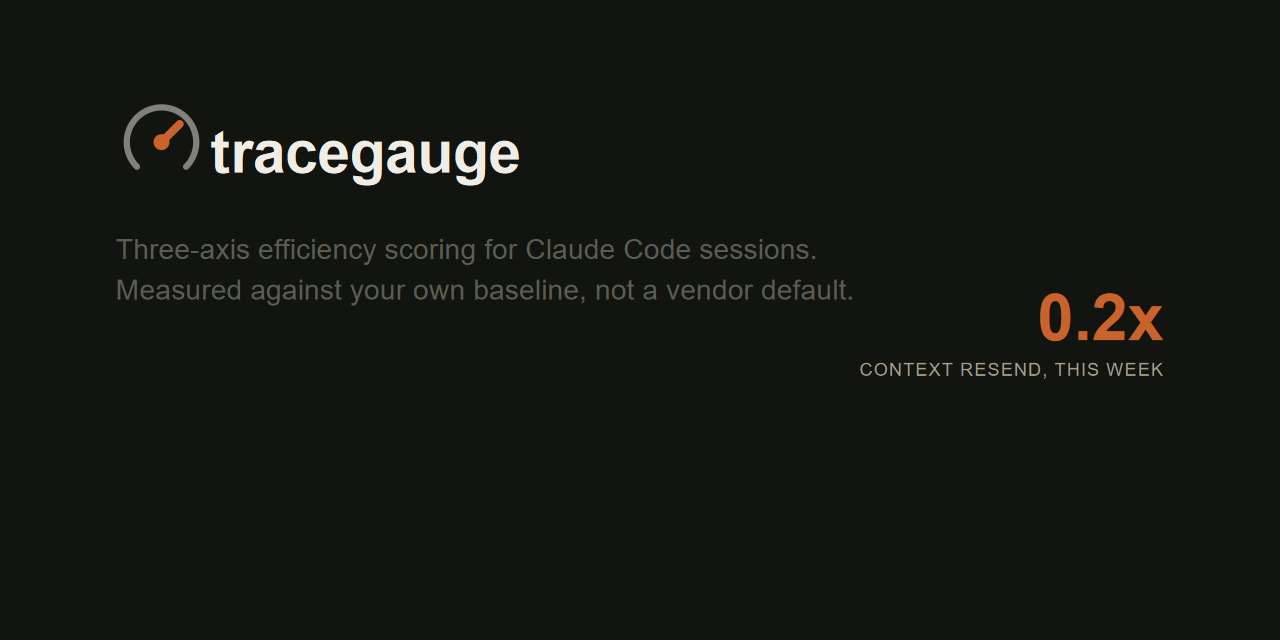
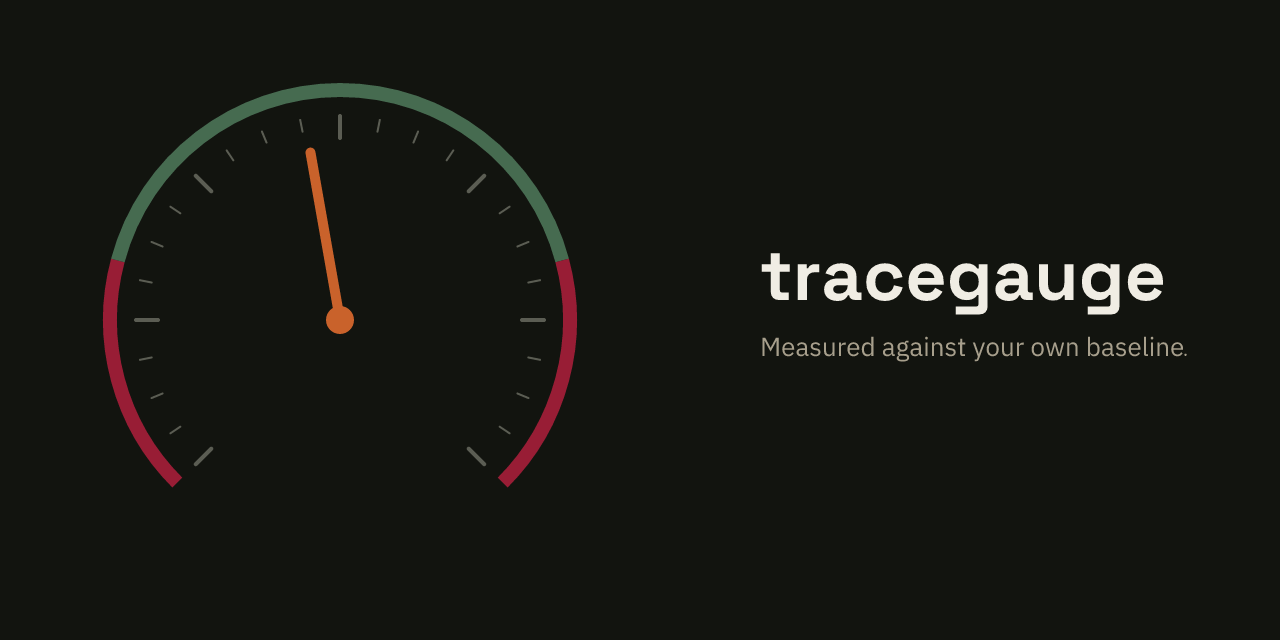
docs(brand): BS2, Direction B hero image, text as real glyph paths (#53)
* docs(brand): BS2 -- Direction B hero image, text as real glyph paths

Rebuilds og-preview.svg/.png in Direction B (motif left, dominates;
outlined wordmark + tagline right), and fixes a real bug found while
doing it: the source SVG's tagline/caption color tokens were still the
stale #6B6A5E placeholder AU1's own commit said it fixed -- that fix was
applied only to the rasterized PNG, never to the source SVG, so the
source and its own rendered output had silently diverged. Rebuilding from
this script closes that gap structurally (there is now exactly one source
of truth, not a PNG hand-patched after the fact).

Every character in the wordmark/tagline is now a real path traced from
this repo's own bundled font files via fontTools (scripts/generate_og_preview.py),
not a live <text> element -- this environment's SVG rasterizer proved
(AU1) it does not do real font-family matching, so text is now a shape
problem, solved before the file ever reaches a rasterizer, not a
typography problem hoping the fallback stays legible. The bundled font
subsets cover alphanumerics + space only (no punctuation); the hyphen and
period this design needs are hand-drawn as trivial geometric shapes.

og-preview.png is now RGB truecolor/8-bit/no-alpha/no-interlace/no-ICC,
exactly IHDR+IDAT+IEND -- the maximally-conservative structure by
construction. og-preview-conservative.png is removed: it existed
specifically as a fallback for a less-conservative primary that no longer
[…]

Changed region(s): [[0.0625, 0.125, 0.9375, 0.75]]

diff --git a/scripts/generate_og_preview.py b/scripts/generate_og_preview.py
@@ -1,0 +1,202 @@
+from __future__ import annotations
+
+"""Regenerate assets/brand/og-preview.svg and .png.
+
+Run from a throwaway venv with fontTools, brotli, resvg-py, and pillow --
+never the project's own dev environment (this script is design tooling,
+not shipped code, and has no place in tes's own dependency graph).
+
+Every character in the wordmark/tagline is a real path traced from this
+repo's own bundled font files via fontTools, never a live <text> element --
+this rasterization pipeline's SVG renderer does not do real font-family
+matching (proven during the original AU1 rasterization: identical
+font_extents regardless of the requested font name), so text is a shape
+problem here, not a typography problem. The bundled font subsets
+(tes/web/static/fonts/*.woff2) cover alphanumerics + space only (63
+glyphs, no punctuation at all) -- the hyphen and period this file's own
+tagline needs are hand-drawn as trivial geometric shapes; every other
+character is a real glyph outline.
+
+Usage:
+    uv venv --python 3.11 C:/some-throwaway-path
+    uv pip install fonttools brotli resvg-py pillow --python C:/some-throwaway-path/Scripts/python.exe
+    C:/some-throwaway-path/Scripts/python.exe scripts/generate_og_preview.py
+"""
+
+import io
+import math
+import struct
+from pathlib import Path
+
+from fontTools.pens.svgPathPen import SVGPathPen
+from fontTools.pens.transformPen import TransformPen
+from fontTools.ttLib import TTFont
+from PIL import Image
+
+ROOT = Path(__file__).parent.parent
+FONT_DIR = ROOT / "tes" / "web" / "static" / "fonts"
+DISPLAY_FONT = str(FONT_DIR / "spacegrotesk-700.woff2")
+BODY_FONT = str(FONT_DIR / "ibmplexsans-400.woff2")
+OUT_SVG = ROOT / "assets" / "brand" / "og-preview.svg"
+OUT_PNG = ROOT / "assets" / "brand" / "og-preview.png"
+
+# Calibration palette (BRAND.md)
+INK = "#12140F"
+PAPER = "#F0EDE4"
+NEEDLE = "#C9622B"
+CALIBRATED = "#4F7A5C"
+REGRESSION = "#B01E3C"
+GRAPHITE = "#5B5D53"
+TICK = "#A79F8C"
+
+W, H = 1280, 640
+
+_MANUAL_GLYPHS = {"-", "."}
+
+
+def _manual_glyph_path(ch: str, font_size: float, cursor_x: float, y: float) -> tuple[str, float]:
+    if ch == "-":
+        w = font_size * 0.28
+        h = font_size * 0.07
+        gy = y - font_size * 0.32
+        return f"M {cursor_x:.2f} {gy:.2f} h {w:.2f} v {h:.2f} h {-w:.2f} Z", font_size * 0.38
+    if ch == ".":
+        r = font_size * 0.045
+        cx = cursor_x + r
+        cy = y - r
+        d = (
+            f"M {cx - r:.2f} {cy:.2f} "
+            f"a {r:.2f} {r:.2f} 0 1 0 {2 * r:.2f} 0 "
+            f"a {r:.2f} {r:.2f} 0 1 0 {-2 * r:.2f} 0 Z"
+        )
+        return d, font_size * 0.22
+    raise ValueError(f"no manual glyph for {ch!r}")
+
+
+def text_to_path(
+    font_path: str, text: str, font_size: float, x: float, y: float
+) -> tuple[str, float]:
+    """Real glyph outlines from `font_path`, baseline-anchored at (x, y) --
+    a drop-in for what an SVG <text> element would occupy, minus the live
+    text (and minus the rasterizer's font-resolution step entirely)."""
+    font = TTFont(font_path)
+    glyph_set = font.getGlyphSet()
+    cmap = font.getBestCmap()
+    scale = font_size / font["head"].unitsPerEm
+    hmtx = font["hmtx"]
+    path_parts = []
+    cursor_x = x
+
+    for ch in text:
+        if ch in _MANUAL_GLYPHS:
+            d, advance = _manual_glyph_path(ch, font_size, cursor_x, y)
+        else:
+            codepoint = ord(ch)
+            if codepoint not in cmap:
+                raise ValueError(f"glyph for {ch!r} not in font {font_path}")
+            glyph_name = cmap[codepoint]
+            advance = hmtx[glyph_name][0] * scale
+            svg_pen = SVGPathPen(glyph_set)
+            transform_pen = TransformPen(svg_pen, (scale, 0, 0, -scale, cursor_x, y))
+            glyph_set[glyph_name].draw(transform_pen)
+            d = svg_pen.getCommands()
+        if d:
+            path_parts.append(d)
+        cursor_x += advance
+
+    return " ".join(path_parts), cursor_x - x
+
+
+def arc_path(cx: float, cy: float, r: float, start_deg: float, end_deg: float) -> str:
+    def pt(deg: float) -> tuple[float, float]:
+        rad = math.radians(deg - 90)
+        return cx + r * math.cos(rad), cy + r * math.sin(rad)
+
+    x1, y1 = pt(start_deg)
+    x2, y2 = pt(end_deg)
+    large_arc = 1 if (end_deg - start_deg) > 180 else 0
+    return f"M {x1:.2f} {y1:.2f} A {r} {r} 0 {large_arc} 1 {x2:.2f} {y2:.2f}"
+
+
+def build_svg() -> str:
+    cx, cy, r = 340, 320, 230
+    sweep_start, sweep_end = -135, 135
+
+    zone_stops = [-135, -75, 75, 135]
+    zone_colors = [REGRESSION, CALIBRATED, REGRESSION]
+    band_arcs = "".join(
+        f'<path d="{arc_path(cx, cy, r, zone_stops[i], zone_stops[i + 1])}" '
+        f'fill="none" stroke="{zone_colors[i]}" stroke-width="14" stroke-linecap="butt" opacity="0.85"/>'
+        for i in range(3)
+    )
+
+    ticks = []
+    n_major, n_minor_per_major = 6, 4
+    total_ticks = n_major * n_minor_per_major
+    tick_r_outer = r - 26
+    for i in range(total_ticks + 1):
+        deg = sweep_start + (sweep_end - sweep_start) * i / total_ticks
+        is_major = i % n_minor_per_major == 0
+        length = 22 if is_major else 12
+        width = 4 if is_major else 2
+        rad = math.radians(deg - 90)
+        x1 = cx + tick_r_outer * math.cos(rad)
+        y1 = cy + tick_r_outer * math.sin(rad)
+        x2 = cx + (tick_r_outer - length) * math.cos(rad)
+        y2 = cy + (tick_r_outer - length) * math.sin(rad)
+        ticks.append(
+            f'<line x1="{x1:.2f}" y1="{y1:.2f}" x2="{x2:.2f}" y2="{y2:.2f}" '
+            f'stroke="{GRAPHITE}" stroke-width="{width}" stroke-linecap="round"/>'
+        )
+
+    needle_deg = -10
+    needle_len = r - 60
+    rad = math.radians(needle_deg - 90)
+    nx = cx + needle_len * math.cos(rad)
+    ny = cy + needle_len * math.sin(rad)
+    needle = (
+        f'<line x1="{cx}" y1="{cy}" x2="{nx:.2f}" y2="{ny:.2f}" '
+        f'stroke="{NEEDLE}" stroke-width="10" stroke-linecap="round"/>'
+        f'<circle cx="{cx}" cy="{cy}" r="14" fill="{NEEDLE}"/>'
+    )
+
+    name_d, _ = text_to_path(DISPLAY_FONT, "tracegauge", 72, 760, 300)
+    tag_d, _ = text_to_path(BODY_FONT, "Measured against your own baseline.", 26, 760, 356)
+    text = f'<path d="{name_d}" fill="{PAPER}"/><path d="{tag_d}" fill="{TICK}"/>'
+
+    return f'''<svg xmlns="http://www.w3.org/2000/svg" viewBox="0 0 {W} {H}" width="{W}" height="{H}">
+<rect width="{W}" height="{H}" fill="{INK}"/>
+{band_arcs}{"".join(ticks)}{needle}
+{text}
+</svg>'''
+
+
+def main() -> None:
+    svg = build_svg()
+    OUT_SVG.write_text(svg, encoding="utf-8")
+    print(f"wrote {OUT_SVG}")
+
+    import resvg_py
+
+    png_data = resvg_py.svg_to_bytes(svg_path=str(OUT_SVG), width=W, height=H)
+    img = Image.open(io.BytesIO(bytes(png_data))).convert("RGB")
+    img.save(OUT_PNG, format="PNG")
+    print(f"wrote {OUT_PNG}")
+
+    data = OUT_PNG.read_bytes()
+    pos = 8
+    chunks = []
+    while pos < len(data):
+        length = struct.unpack(">I", data[pos : pos + 4])[0]
+        chunks.append(data[pos + 4 : pos + 8].decode("ascii"))
+        pos += 8 + length + 4
+    w, h, bitdepth, colortype = struct.unpack(">IIBB", data[16:26])
+    print(
+        f"verify: {w}x{h}, bitdepth={bitdepth}, colortype={colortype} (2=RGB truecolor), chunks={chunks}"
+    )
+    assert (w, h, bitdepth, colortype) == (W, H, 8, 2), "PNG constraint check failed"
+    assert chunks == ["IHDR", "IDAT", "IEND"], "unexpected PNG chunks -- not maximally conservative"
+
+
+if __name__ == "__main__":
+    main()

diff --git a/assets/brand/BRAND.md b/assets/brand/BRAND.md
@@ -92,14 +92,29 @@ Reused, not reinvented, per context:
   First-pass kerning — a candidate for a manual pass once approved.
 - `badge.svg` — compact horizontal README badge, 168×28, self-contained
   ground so it holds next to shields.io badges on any README background.
-- `og-preview.svg` — 1200×630 link-unfurl preview (GitHub/Slack/social).
+- `og-preview.svg` — 1280×640 link-unfurl preview (GitHub/Slack/social).
+  Direction B composition: motif left (dominates), outlined wordmark +
+  tagline right. Every character in the wordmark/tagline is a real path
+  traced from this repo's own bundled font files (`tes/web/static/fonts/`)
+  via `fontTools`, not a live `<text>` element — this rasterization
+  environment's SVG renderer does not do real font-family matching (proven
+  during the original AU1 rasterization: identical `font_extents`
+  regardless of the requested font name), so text is treated as a shape
+  problem, not a typography problem, upstream of ever reaching a
+  rasterizer. The bundled font subsets cover alphanumerics + space only
+  (63 glyphs, no punctuation) — the hyphen and period needed here are
+  hand-drawn as trivial geometric shapes (a rectangle, a filled circle),
+  everything else is a real glyph outline.
 - `og-preview.png` — 1280×640 PNG export of the above, uploaded via repo
   Settings → General → Social preview (GitHub serves this PNG directly;
-  it doesn't render the SVG). `og-preview-conservative.png` is a
-  maximally-stripped re-encode (RGB, 8-bit, no alpha/interlace/ICC
-  profile, IHDR+IDAT+IEND only) kept as a fallback upload if the primary
-  PNG's social-preview asset ever 404s again — see AU1 in git history for
-  the diagnosis.
+  it doesn't render the SVG). RGB truecolor, 8-bit, no alpha, no
+  interlacing, no ICC profile, exactly IHDR+IDAT+IEND — this is now the
+  maximally-conservative structure by construction (previously a separate
+  `og-preview-conservative.png` fallback existed for this; consolidated
+  away since there is no longer a "less conservative" primary to fall
+  back from). Whether this resolves the AU1 404 is tracked separately, not
+  a property of the file itself — see git history (AU1, BR2, BS1) for the
+  live diagnosis.
 
 None of these are referenced by any shipped template yet.
 
